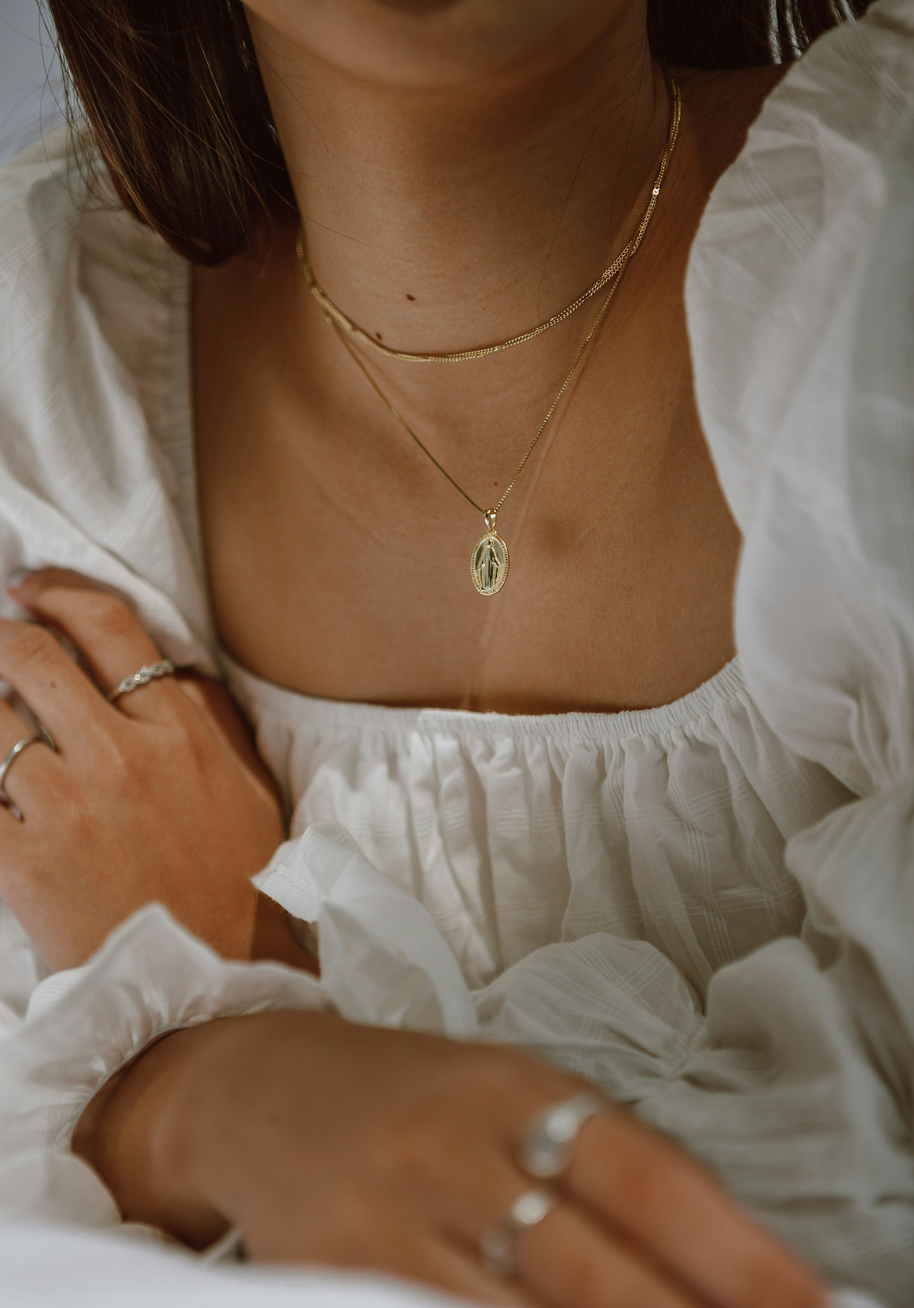
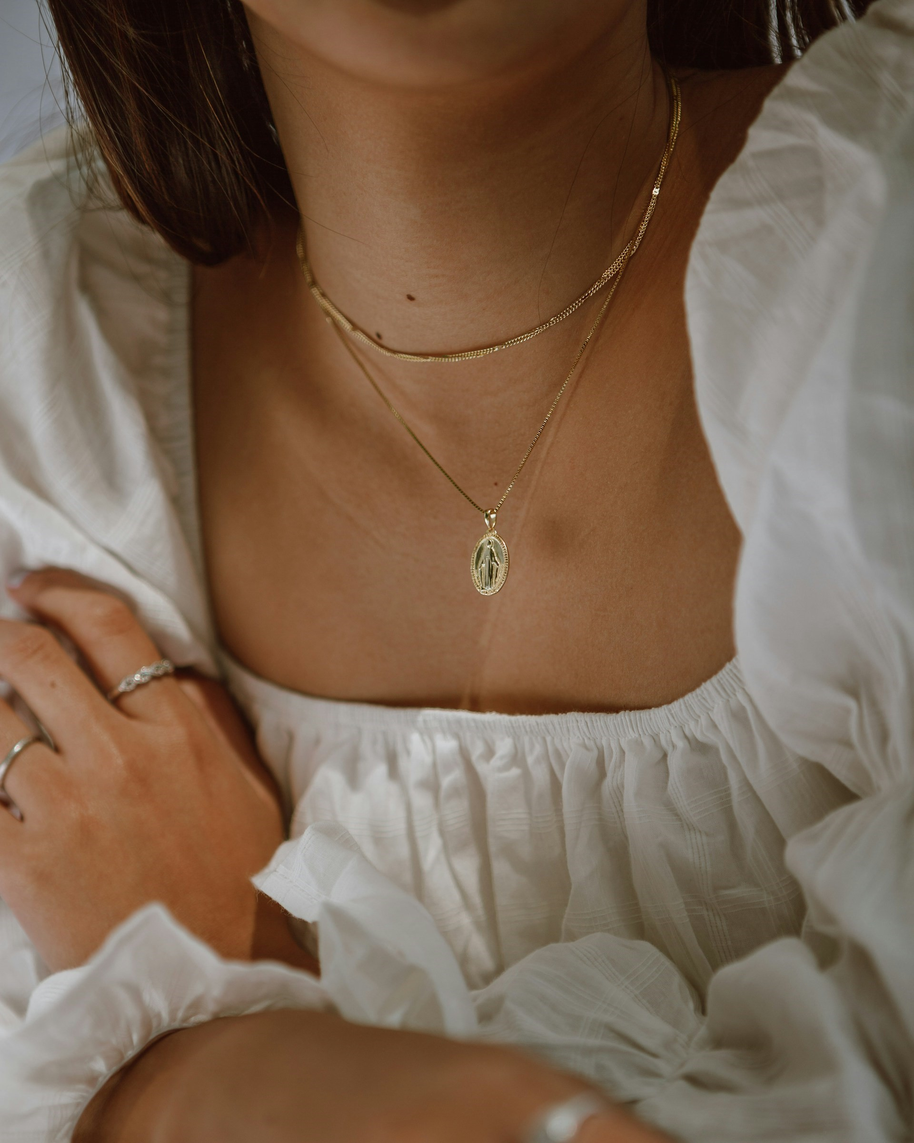
resized model pics, added responsive layout for home page card containers

diff --git a/src/Components/Main/Home/Home.jsx b/src/Components/Main/Home/Home.jsx
@@ -5,6 +5,7 @@ import manWomanPic from "../../../assets/man-woman.jpg";
 import jewelleryPic from "../../../assets/jewellery.jpg";
 import electronicsPic from "../../../assets/electronics.jpg";
 import styles from "./Home.module.css";
+import { RightArrow } from "../../SVG/Icons";
 
 const Home = () => {
   const { products, loading } = useOutletContext();
@@ -29,39 +30,83 @@ const Home = () => {
         <div className={styles.modelImages}>
           <img src={manWomanPic} alt="" />
         </div>
-        <div>
+        <div className={styles.description}>
+          <h3>Elevate Your Style with Our Exclusive Collection</h3>
           <p>
-            Lorem ipsum dolor sit amet consectetur adipisicing elit. Non dolores ab, error nesciunt
-            facilis voluptatem at asperiores rem exercitationem sint neque modi tempora mollitia id,
-            repellendus dolor in iste cupiditate.
+            Explore our range of men&apos;s and women&apos;s apparel, perfect for any occasion. For
+            men, find everything from sharp suits and tailored shirts to versatile trousers and
+            stylish jackets. Our women&apos;s fashion features elegant dresses, chic blouses, and
+            sophisticated skirts, designed to celebrate every facet of femininity. <br />
+            <br />
+            <br />
+            Our collection blends style with comfort, offering high-quality fabrics and impeccable
+            fits. Whether for a formal event or a casual day out, our apparel is crafted to enhance
+            your wardrobe with timeless elegance and modern charm.
           </p>
-
-          <Link to={`products/men's clothing`}>Men</Link>
-          <Link to={`products/women's clothing`}>Women</Link>
+          <div>
+            <Link to={`products/men's clothing`}>
+              Men <RightArrow />
+            </Link>
+            <Link to={`products/women's clothing`}>
+              Women
+              <RightArrow />
+            </Link>
+          </div>
         </div>
 
         <div className={styles.modelImages}>
           <img src={jewelleryPic} alt="" />
         </div>
-        <div>
+        <div className={styles.description}>
+          <h3>
+            Discover the timeless elegance of our jewelry collection, where each piece is crafted
+            with precision and passion
+          </h3>
           <p>
-            Lorem ipsum dolor sit amet consectetur adipisicing elit. Non dolores ab, error nesciunt
-            facilis voluptatem at asperiores rem exercitationem sint neque modi tempora mollitia id,
-            repellendus dolor in iste cupiditate.
+            From shimmering diamonds to exquisite gemstones, our selection offers a perfect blend of
+            classic sophistication and modern style. Whether you&apos;re seeking a statement
+            necklace, a pair of stunning earrings, or a delicate bracelet, our pieces are designed
+            to enhance your natural beauty and commemorate life’s precious moments. <br />
+            <br />
+            <br />
+            Each item is a testament to fine craftsmanship, ensuring that your jewelry not only
+            looks beautiful but also stands the test of time. Perfect for special occasions or
+            everyday elegance, our jewelry is crafted to make you feel unique and treasured.
           </p>
-          <Link to={`products/jewelery`}>Jewelery</Link>
+          <div>
+            <Link to={`products/jewelery`}>
+              Jewelery
+              <RightArrow />
+            </Link>
+          </div>
         </div>
 
         <div className={styles.modelImages}>
           <img src={electronicsPic} alt="" />
         </div>
-        <div>
+        <div className={styles.description}>
+          <h3>
+            Step into the future with our cutting-edge electronics that bring convenience and
+            innovation to your fingertips
+          </h3>
           <p>
-            Lorem ipsum dolor sit amet consectetur adipisicing elit. Non dolores ab, error nesciunt
-            facilis voluptatem at asperiores rem exercitationem sint neque modi tempora mollitia id,
-            repellendus dolor in iste cupiditate.
+            Our range includes the latest in smart technology, from sleek smartphones and powerful
+            laptops to high-definition televisions and smart home devices. Designed to keep you
+            connected, entertained, and efficient, our electronics combine high performance with
+            user-friendly features. <br />
+            <br />
+            <br />
+            Whether you&apos;re a tech enthusiast or just looking for reliable gadgets, our products
+            are tailored to meet your needs and exceed your expectations. Embrace the digital
+            revolution with our top-quality electronics, engineered to enhance your lifestyle and
+            keep you ahead of the curve.
           </p>
-          <Link to={`products/electronics`}>Electronics</Link>
+          <div>
+            <Link to={`products/electronics`}>
+              Electronics
+              <RightArrow />
+            </Link>
+          </div>
         </div>
       </div>
     </>

diff --git a/src/Components/Main/Home/Home.module.css b/src/Components/Main/Home/Home.module.css
@@ -1,8 +1,88 @@
 .container {
   display: flex;
-  flex-wrap: wrap;
+  flex-direction: column;
+  align-items: center;
+  gap: 30px;
+  margin-bottom: 50px;
+  padding: 0 5%;
+  font-size: 0.8rem;
 }
 
 .modelImages {
-  /* max-width: 50%; */
+  box-shadow: 0 10px 10px var(--primary-color);
+  overflow: hidden;
+  border-radius: 10px;
+}
+
+.description {
+  display: flex;
+  flex-direction: column;
+  gap: 10px;
+}
+
+.description > h3 {
+  font-weight: bolder;
+  color: var(--accent-color);
+}
+
+.description > div {
+  display: flex;
+  gap: 10px;
+  justify-content: flex-end;
+}
+
+.description a {
+  display: flex;
+  align-items: center;
+  color: var(--accent-color);
+}
+
+@media screen and (min-width: 540px) {
+  .container {
+    flex-direction: row;
+    flex-wrap: wrap;
+    justify-content: center;
+    align-items: flex-start;
+  }
+
+  .container > div:nth-child(odd) {
+    max-width: 50%;
+  }
+
+  .container > div:nth-child(even) {
+    max-width: 40%;
+  }
+
+  .container > div:nth-child(1) {
+    order: 1;
+  }
+  .container > div:nth-child(2) {
+    order: 2;
+  }
+  .container > div:nth-child(3) {
+    order: 4;
+  }
+  .container > div:nth-child(4) {
+    order: 3;
+  }
+  .container > div:nth-child(5) {
+    order: 5;
+  }
+  .container > div:nth-child(6) {
+    order: 6;
+  }
+}
+
+@media screen and (min-width: 768px) {
+  .container {
+    font-size: 1.2rem;
+  }
+
+  .container > div:nth-child(odd) {
+    max-width: 40%;
+  }
+
+  .container > div:nth-child(even) {
+    max-width: 50%;
+  }
 }

diff --git a/src/Components/SVG/Icons.jsx b/src/Components/SVG/Icons.jsx
@@ -2,6 +2,34 @@ const small = "12px";
 // const medium = "24px";
 const large = "60px";
 
+const RightArrow = () => (
+  <svg
+    fill="#000000"
+    width="36px"
+    height="36px"
+    viewBox="0 0 24 24"
+    xmlns="http://www.w3.org/2000/svg"
+    className="icon line"
+    stroke="#000000"
+  >
+    <g id="SVGRepo_bgCarrier" strokeWidth="0"></g>
+    <g id="SVGRepo_tracerCarrier" strokeLinecap="round" strokeLinejoin="round"></g>
+    <g id="SVGRepo_iconCarrier">
+      <path
+        id="primary"
+        d="M3,12H21m-3,3,3-3L18,9"
+        style={{
+          fill: "none",
+          stroke: "#c04000",
+          strokeLinecap: "round",
+          strokeLinejoin: "round",
+          strokeWidth: "1.5",
+        }}
+      ></path>
+    </g>
+  </svg>
+);
+
 const CartIcon = () => (
   <svg width="32" height="32" viewBox="0 0 24 24" fill="none" xmlns="http://www.w3.org/2000/svg">
     <path
@@ -215,4 +243,5 @@ export {
   LinkedInIcon,
   XIcon,
   YoutubeIcon,
+  RightArrow,
 };

diff --git a/src/Router.jsx b/src/Router.jsx
@@ -3,7 +3,6 @@ import Root from "./Components/Root/Root";
 import Home from "./Components/Main/Home/Home";
 import Products from "./Components/Main/Products/Products";
 import Categories from "./Components/Main/Products/Categories/Categories";
-// import ProductDetails from "./Components/Main/Products/ProductDetail/ProductDetails";
 import ProductDetails from "./Components/Main/Products/ProductDetail/ProductDetails";
 import { NotFound, ErrorPage } from "./Components/ErrorPages/ErrorPages";
 

diff --git a/index.html b/index.html
@@ -10,6 +10,7 @@
       href="https://fonts.googleapis.com/css2?family=Libre+Baskerville:ital,wght@0,400;0,700;1,400&family=Satisfy&display=swap"
       rel="stylesheet"
     />
+    <link href="https://fonts.googleapis.com/css2?family=Lobster&display=swap" rel="stylesheet" />
     <title>Shopping Cart</title>
   </head>
   <body>

diff --git a/src/Components/Main/Home/ImageSlider/ImageSlider.module.css b/src/Components/Main/Home/ImageSlider/ImageSlider.module.css
@@ -16,7 +16,9 @@
 
 .carouselHeading {
   margin: 0 auto;
-  font-weight: bolder;
+  font-family: "Lobster", sans-serif;
+  font-size: 2rem;
+  text-shadow: 0 0 10px var(--accent-color);
   margin-bottom: 10px;
   color: var(--secondary-color);
 }
